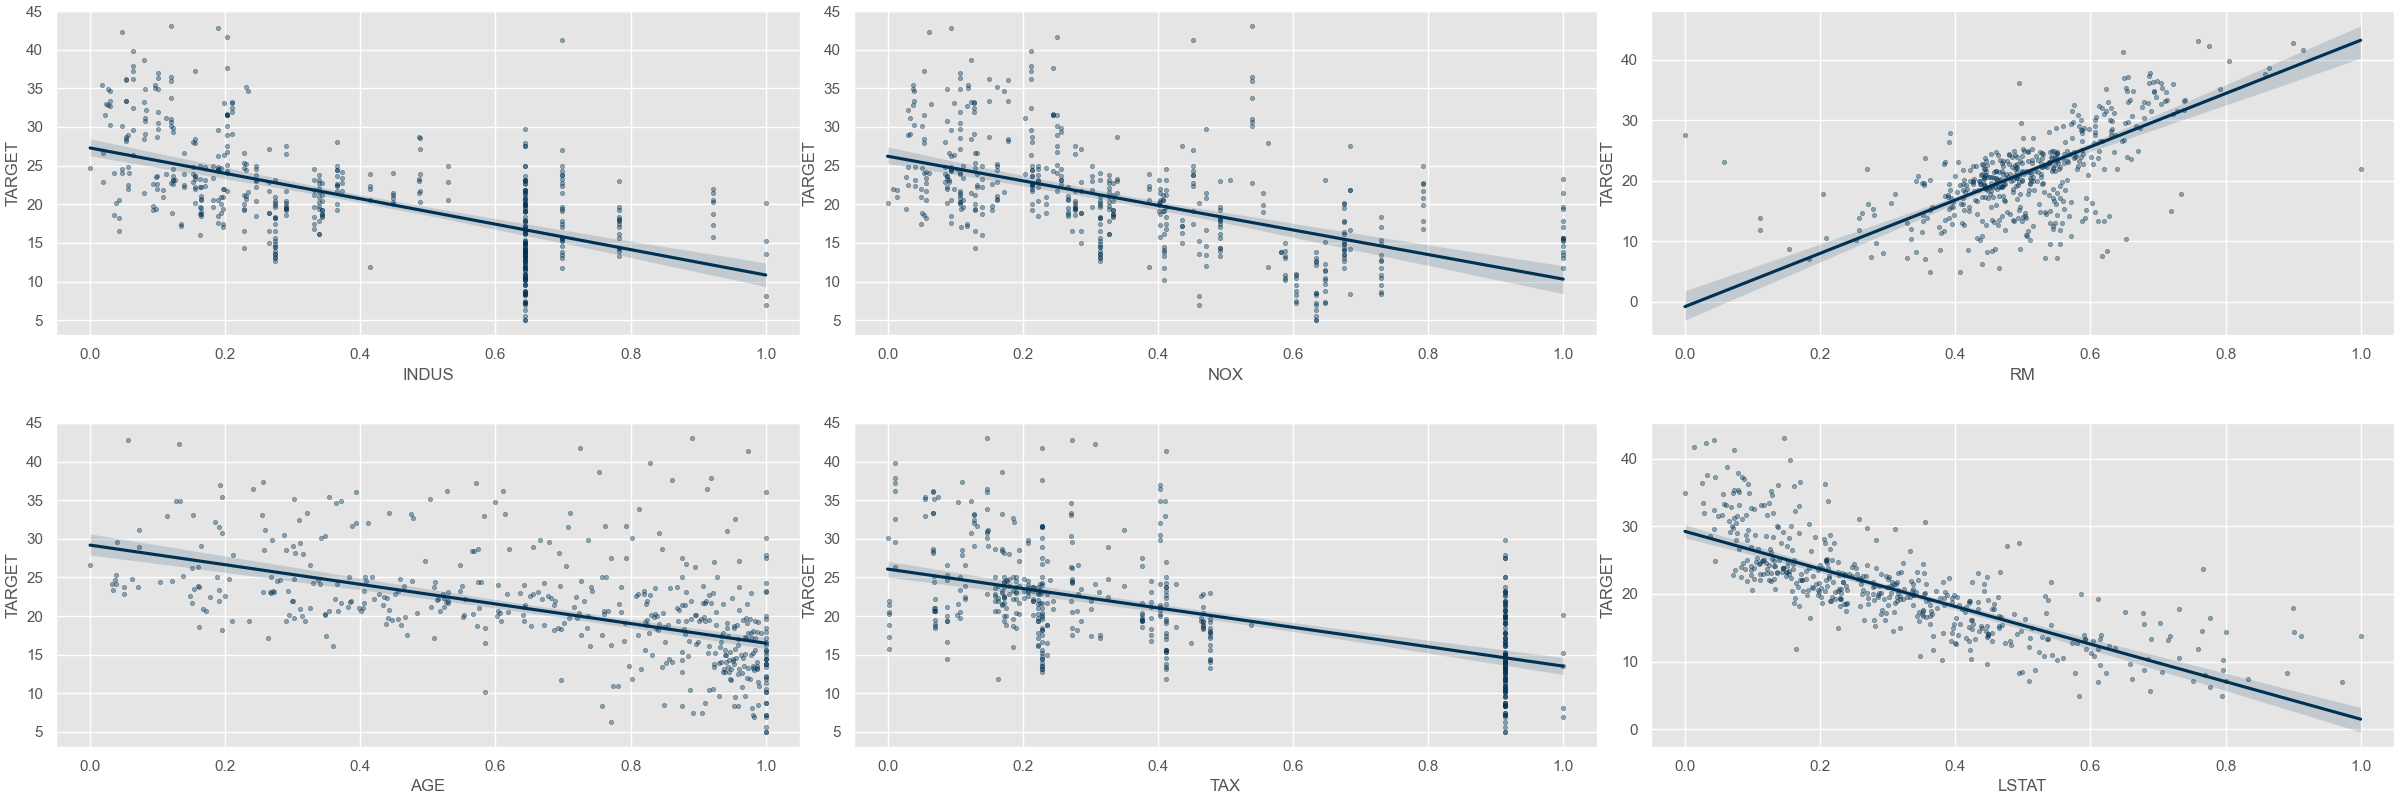
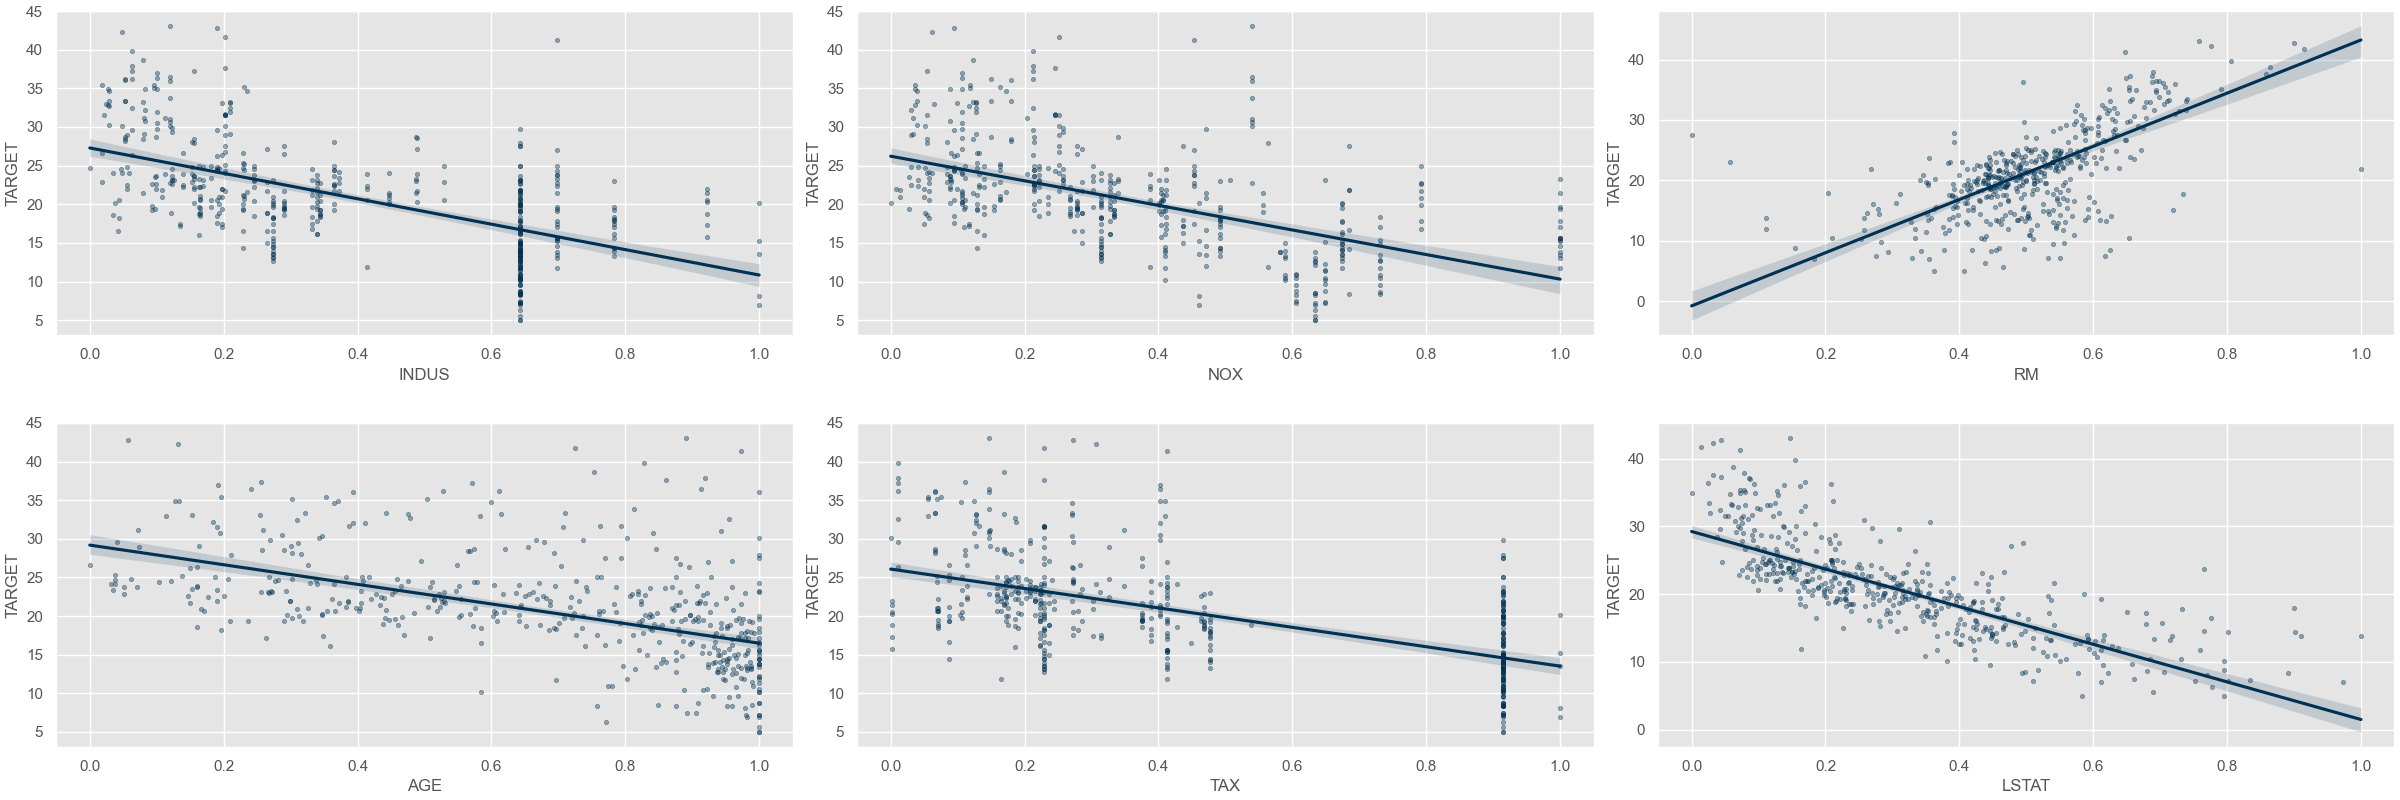
refactor(scaled-plots): updated subplot width, the subplots were a li… (#68)
* refactor(scaled-plots): updated subplot width, the subplots were a little too close together

* refactor(scaled-plots): save image

diff --git a/src/shap_app/webapp/components/eda_correlated_features.py b/src/shap_app/webapp/components/eda_correlated_features.py
@@ -120,7 +120,7 @@ def plot_scaled_reg_plots(
     if os.path.exists(image_file):
         st.image(
             image_file,
-            caption=("Regression Analysis of Scaled Housing Features vs. Median Home Value"),
+            caption="Regression Analysis of Scaled Housing Features vs. Median Home Value",
             use_column_width=True,
         )
 
@@ -142,7 +142,7 @@ def plot_scaled_reg_plots(
                 color="#003153",
                 scatter_kws={"s": 10, "alpha": 0.4, "linewidths": 0.5},
             )
-        plt.tight_layout(pad=0.4, w_pad=0.25, h_pad=2.5)
+        plt.tight_layout(pad=0.4, w_pad=1.0, h_pad=2.5)
         reg_plots = plt.gcf()
         reg_plots.savefig(image_file)
         st.pyplot(reg_plots, clear_figure=True)
